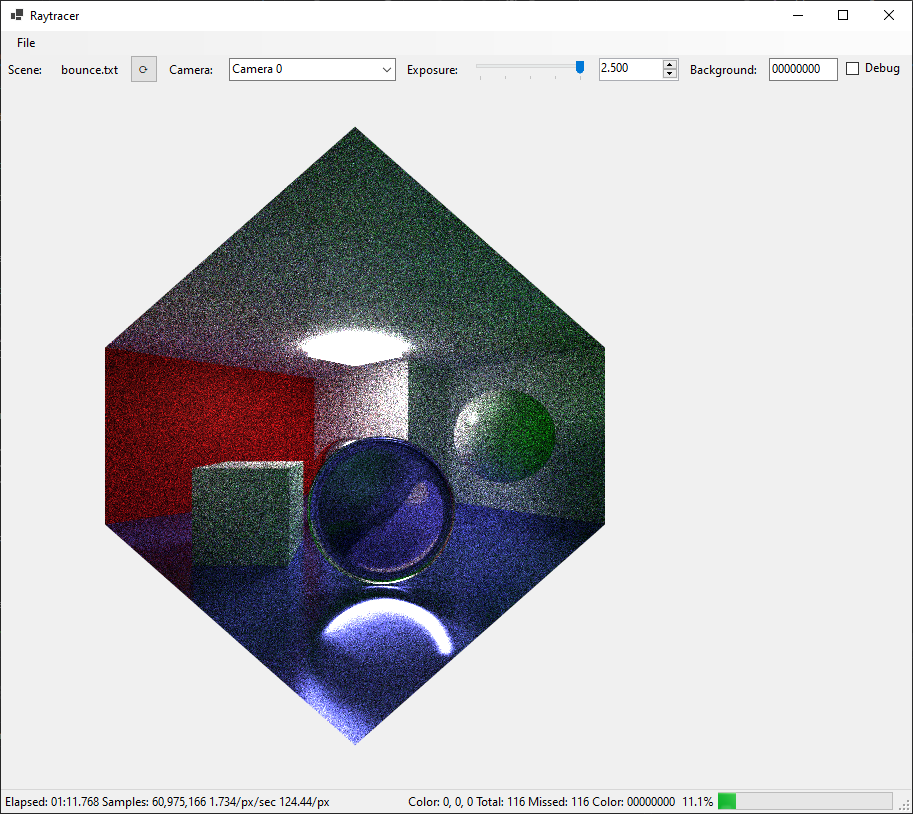
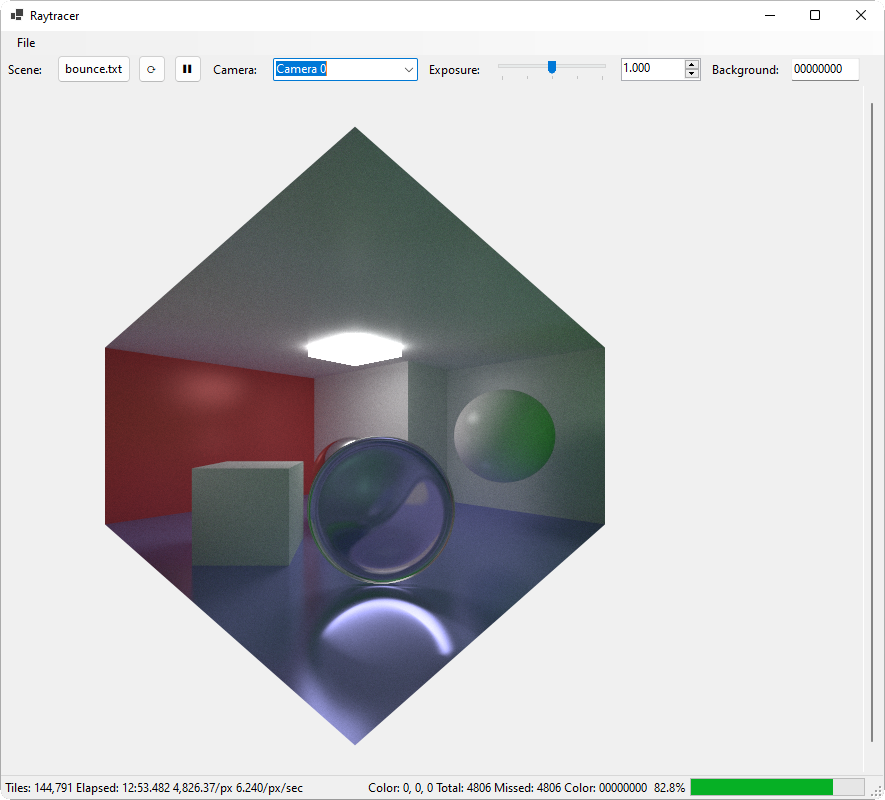
Made status text more concise, updated screenshots and bounce.txt scene.

diff --git a/RaytracerCore/Raytracing/FullRaytracer.cs b/RaytracerCore/Raytracing/FullRaytracer.cs
@@ -352,7 +352,7 @@ namespace RaytracerCore.Raytracing
 				// 1000 samples per pixel = 50% progress, but progress never reaches 100%
 				double progress = perPixel / (perPixel + 1000);
 
-				UpdateStatus($"Tiles completed: {totalTiles:N0} Average elapsed time: {Util.FormatTimeSpan(averageTime)} " +
+				UpdateStatus($"Tiles: {totalTiles:N0} Elapsed: {Util.FormatTimeSpan(averageTime)} " +
 					$"{perPixel:N2}/px {samplesPerSecond:N3}/px/sec",
 					progress);
 
